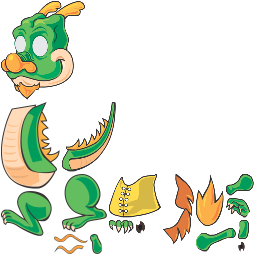
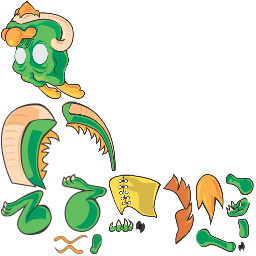
Fixed vertical flip

Changed region(s): [[0.0, 0.0, 1.0, 1.0]]

diff --git a/DragonBonesSFML/Wrapper/WrapperSlot.cpp b/DragonBonesSFML/Wrapper/WrapperSlot.cpp
@@ -314,23 +314,23 @@ void WrapperSlot::_updateTransform(bool isSkinnedMesh)
 			transform.m[5] *= _textureScale;*/
 		}
 
-
 		sf::Vector2f pos;
+
+		globalTransformMatrix.ty = 600 - globalTransformMatrix.ty;
+
+		auto a = globalTransformMatrix.a;
+		auto b = globalTransformMatrix.b;
+
+		globalTransformMatrix.a = -globalTransformMatrix.d;
+		globalTransformMatrix.b = -globalTransformMatrix.c;
+		globalTransformMatrix.c = b;
+		globalTransformMatrix.d = a;
 
 		pos.x = globalTransformMatrix.tx - (globalTransformMatrix.a * _pivotX + globalTransformMatrix.c * _pivotY);
 		pos.y = globalTransformMatrix.ty - (globalTransformMatrix.b * _pivotX + globalTransformMatrix.d * _pivotY);
 
-		//pos.x = globalTransformMatrix.tx - (globalTransformMatrix.d * _pivotX + globalTransformMatrix.d * _pivotY);
-	    //pos.y = -globalTransformMatrix.ty - (globalTransformMatrix.c * _pivotX + globalTransformMatrix.a * _pivotY);
-
-		static const sf::Vector2f offset(255.f, 255.f);
-
-		_renderDisplay->matrix = sf::Transform(globalTransformMatrix.a,	-globalTransformMatrix.c, pos.x,
+		_renderDisplay->matrix = sf::Transform(globalTransformMatrix.a, -globalTransformMatrix.c, pos.x,
 											   globalTransformMatrix.b, -globalTransformMatrix.d, pos.y,
 											   0.f, 0.f, 0.f);
-
-		/*_renderDisplay->matrix = sf::Transform(-globalTransformMatrix.d, globalTransformMatrix.b, pos.x,
-											   -globalTransformMatrix.c, globalTransformMatrix.a, pos.y,
-											   0.f, 0.f, 0.f);*/
 	}
 }

diff --git a/DragonBonesSFML/Wrapper/App.cpp b/DragonBonesSFML/Wrapper/App.cpp
@@ -4,7 +4,7 @@
 
 App::App()
 {
-	_window = std::make_unique<sf::RenderWindow>(sf::VideoMode(800, 600), "dasd");
+	_window = std::make_unique<sf::RenderWindow>(sf::VideoMode(1024, 768), "dasd");
 	_window->setFramerateLimit(60);
 
 	if (!_factory.loadDragonBonesData("dragon_boy_ske.json"))
@@ -41,12 +41,12 @@ void App::run()
 				_window->close();
 		}
 
-		_factory.update(lastUpdate.asSeconds());
+		_factory.update(lastUpdate.asSeconds() / 2);
 
-		_window->clear(sf::Color::Black);
+		_window->clear(sf::Color::White);
 
 		auto view = _window->getDefaultView();
-		view.setCenter(0.f, 0.f);
+		view.setCenter(0.f, 300.f);
 
 		_window->setView(view);
 
